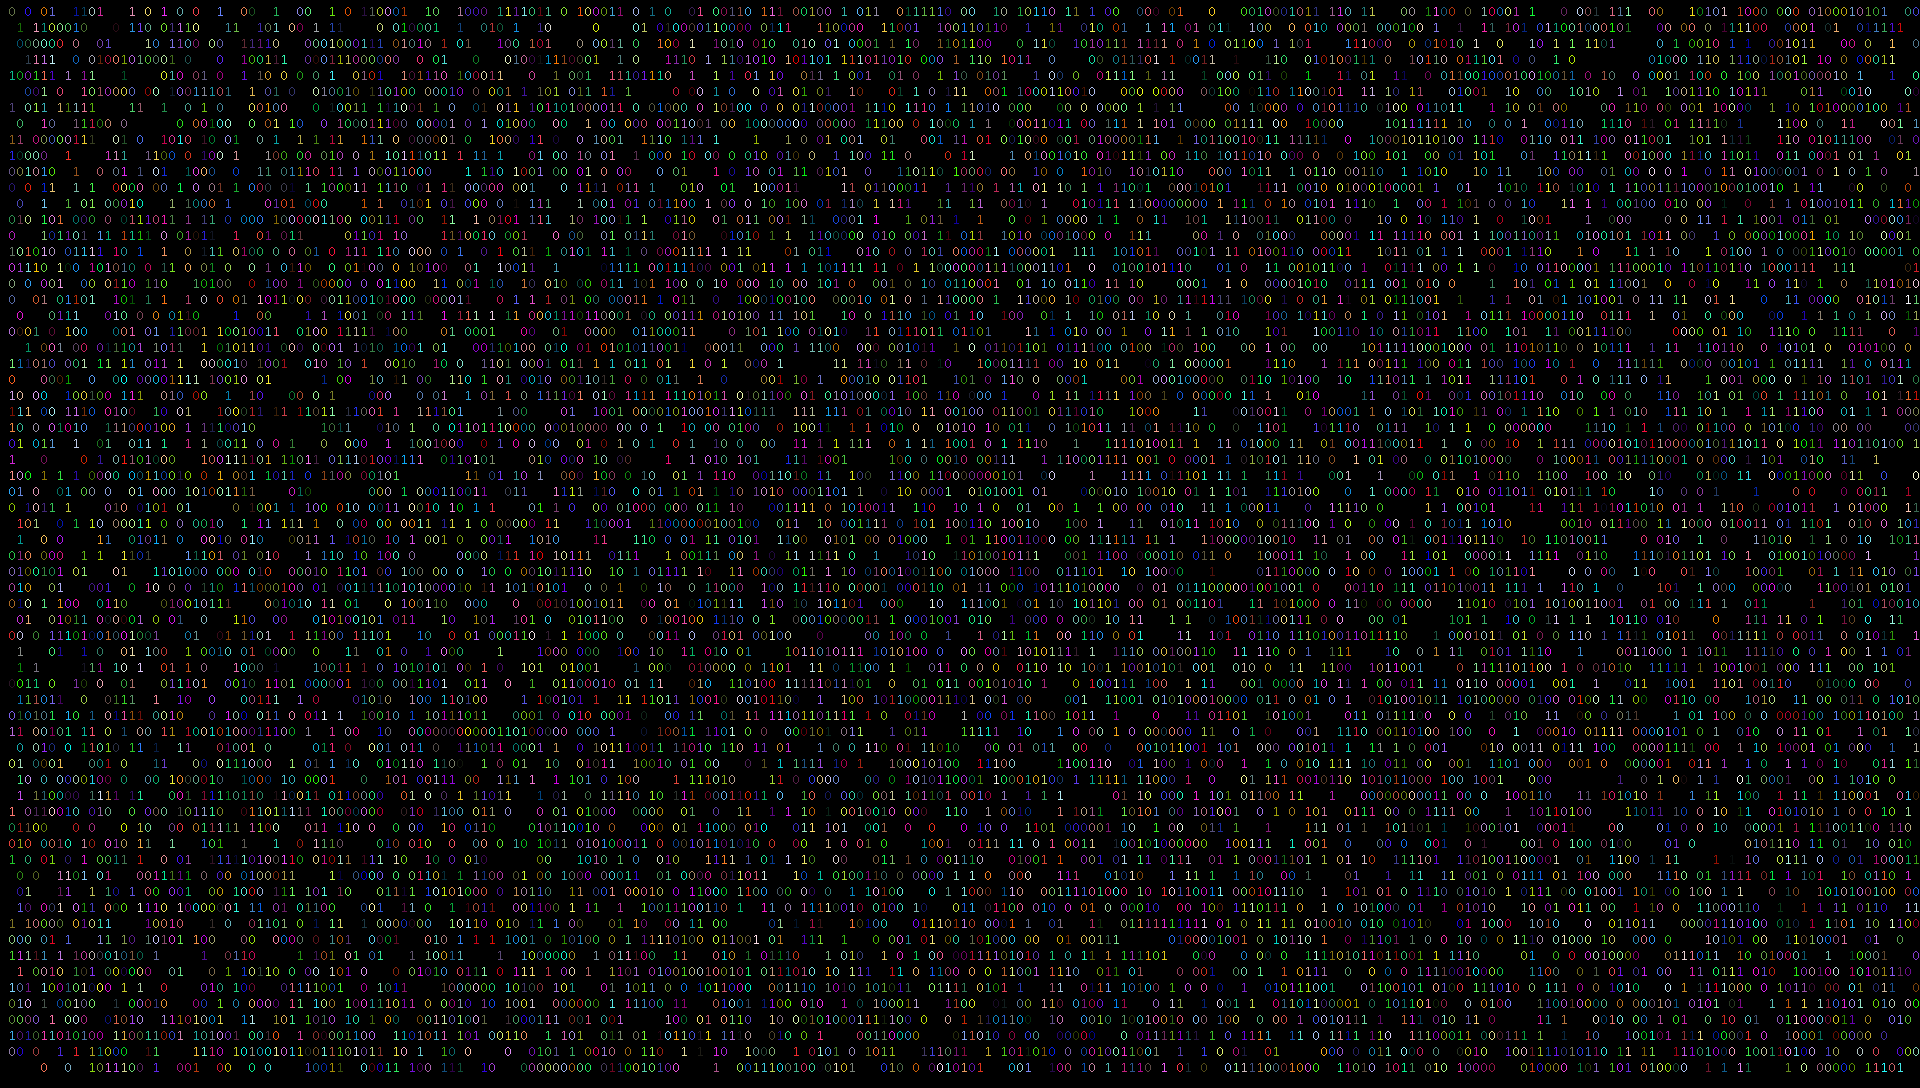
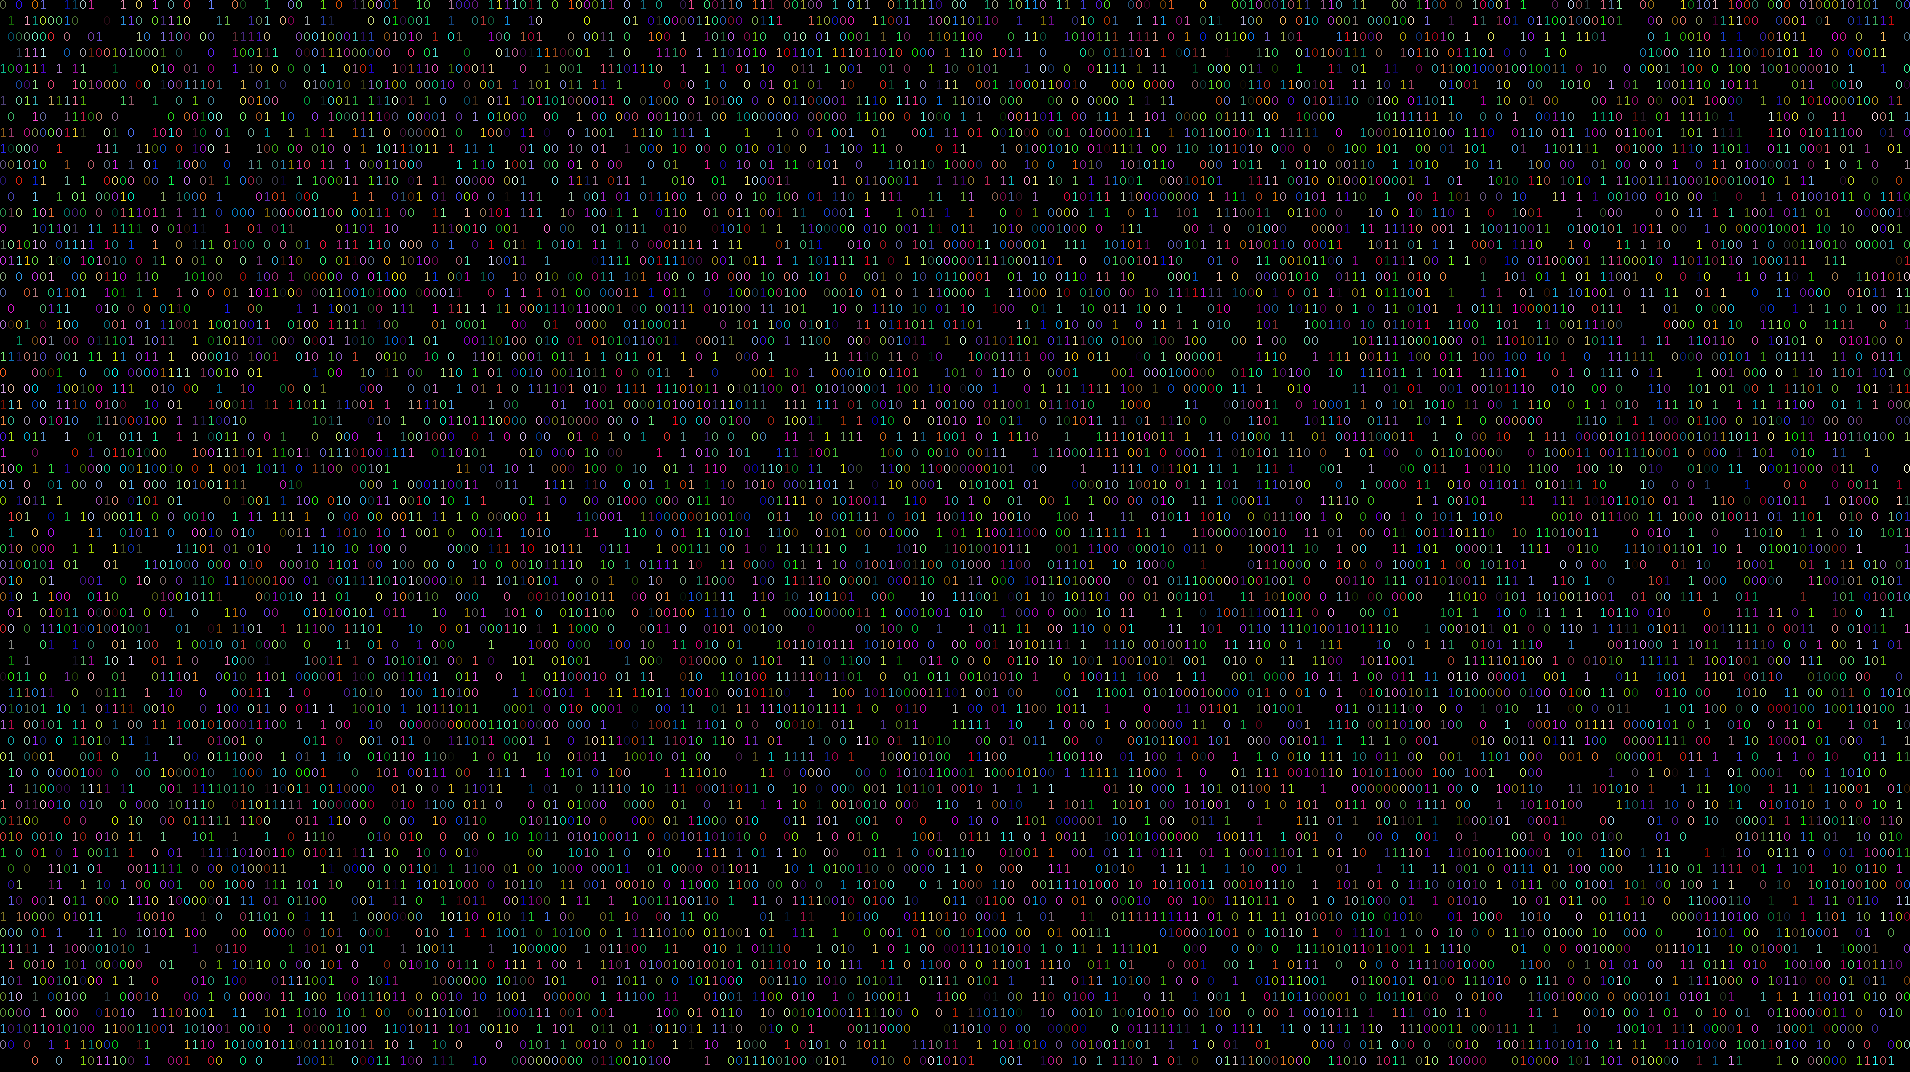
Finalized layout and make some break points, ready to prepare the build

Changed region(s): [[0.0, 0.0, 1.0, 1.0]]

diff --git a/index.html b/index.html
@@ -20,6 +20,7 @@
     <link rel="stylesheet" href="css/components/group-cards.css" />
     <link rel="stylesheet" href="css/components/contact-page.css" />
     <link rel="stylesheet" href="css/components/group-social.css" />
+    <link rel="stylesheet" href="css/components/footer-page.css" />
 
     <link rel="stylesheet" href="css/objects/secondary-title.css" />
     <link rel="stylesheet" href="css/objects/body-text.css" />
@@ -52,7 +53,7 @@
 
       <section class="home-page">
         <figure class="photo-page">
-          <img class="profile" src="assets/images/default-image.jpg" alt="A default image" />
+          <img class="profile" src="assets/images/profile-photo.jpg" alt="My photography" />
         </figure>
         <h1 class="title">Bruno Bolting</h1>
         <p class="sub-title">Full Stack Web Developer</p>
@@ -63,9 +64,12 @@
           I'm a Web Developer from Brazil and I have 2+ years experience in web development using PHP, CSS3, HTML5 and
           Javascript, creating different web system for University Center
           <a class="inline-link" target="_blank" href="https://www.uniguacu.edu.br">Vale do Iguaçu</a>. <br />
+          I'm a bachelor of System of Information formed in University Center Vale do Iguaçu, in Paraná, Brazil.
+          <br />
           I search a new opportunity to learn and make difference in other projects, mainly out of Brazil, with a remote
           Freelancer or a presential job. My english is not fluent for now, but I training every day to get it.<br /><br />
-          If you want a question or just talk, don't be shy, <a class="inline-link" href="#contact">contact me!</a> :D
+          If you want a question or just talk, don't be shy,
+          <a class="inline-link internal-link" href="#contact">contact me!</a> :D
         </p>
       </section>
       <section class="project-page">
@@ -116,6 +120,10 @@
           ></a>
         </div>
       </section>
+      <footer class="footer-page">
+        <p class="text">Bruno Bolting @ 2019</p>
+      </footer>
     </div>
+    <script src="js/script.js"></script>
   </body>
 </html>

diff --git a/css/components/home-page.css b/css/components/home-page.css
@@ -1,16 +1,16 @@
 .home-page {
   grid-area: home;
   height: calc(100vh - 55px);
-  display: flex;
+  /* display: flex;
   align-items: center;
-  flex-flow: column wrap;
+  flex-flow: column wrap; */
   /* background-color: var(--color-out-base); */
 }
 
 .home-page > .title {
-  margin-top: 100px;
+  margin-top: 80px;
   color: var(--color-primary);
-  font-size: 5em;
+  font-size: 80px;
   letter-spacing: 5px;
   text-shadow: 1px 1px 1px var(--color-out-base);
   display: block;
@@ -21,7 +21,42 @@
   margin-top: 10px;
   color: var(--color-secondary);
   letter-spacing: 9px;
-  font-size: 1.5em;
+  font-size: 24px;
   display: block;
   text-align: center;
+}
+
+@media (max-width: 640px) {
+  .home-page {
+    height: calc(85vh - 55px);
+  }
+
+  .home-page > .title {
+    font-size: 60px;
+  }
+
+  .home-page > .sub-title {
+    letter-spacing: 5px;
+  }
+}
+
+@media (max-width: 520px) {
+  .home-page > .title {
+    font-size: 42px;
+  }
+
+  .home-page > .sub-title {
+    font-size: 20px;
+    letter-spacing: 3px;
+  }
+}
+
+@media (max-width: 440px) {
+  .home-page > .title {
+    font-size: 32px;
+  }
+
+  .home-page > .sub-title {
+    font-size: 17px;
+  }
 }

diff --git a/css/components/contact-page.css b/css/components/contact-page.css
@@ -1,15 +1,16 @@
 .contact-page {
   grid-area: contact;
-  height: calc(100vh - 30px);
+  /* height: calc(100vh - 30px); */
   color: var(--color-primary);
+  margin-bottom: 100px;
 }
 
 .contact-page > .email {
   display: block;
-  margin-top: 100px;
+  /* margin-top: 80px; */
   margin-left: auto;
   margin-right: auto;
-  font-size: 3em;
+  font-size: 40px;
   text-align: center;
   text-decoration: none;
   color: inherit;
@@ -18,4 +19,16 @@
 
 .contact-page > .email:hover {
   color: #9affff;
+}
+
+@media (max-width: 640px) {
+  .contact-page > .email {
+    font-size: 35px;
+  }
+}
+
+@media (max-width: 460px) {
+  .contact-page > .email {
+    font-size: 24px;
+  }
 }

diff --git a/css/components/photo-page.css b/css/components/photo-page.css
@@ -1,22 +1,20 @@
 .photo-page {
-  margin-top: 20vh;
-  max-width: 200px;
-  max-height: 200px;
-  width: auto;
-  height: auto;
+  margin-top: 15vh;
+  width: 200px;
+  height: 200px;
   overflow: hidden;
   border: 5px inset #ccc;
   border-radius: 100%;
-  /* display: flex;
-  align-items: center; */
+  display: block;
+  margin-left: auto;
+  margin-right: auto;
+  /* position: absolute;
+  left: 50%;
+  top: 50%;
+  transform: translate(-50%, -50%); */
 }
 
 .photo-page > .profile {
-  position: relative;
-  left: 50%;
-  top: 50%;
-  transform: translate(-50%, -50%);
   width: inherit;
   height: inherit;
-  display: block;
 }

diff --git a/js/script.js b/js/script.js
@@ -1,0 +1,24 @@
+const links = document.querySelectorAll('.internal-link[href^="#"]');
+
+links.forEach(item => {
+  item.addEventListener('click', scrollToIdOnClick);
+});
+
+function getScrollTopByHref(element) {
+  const id = element.getAttribute('href');
+  return document.querySelector(id).offsetTop;
+}
+
+function scrollToIdOnClick(event) {
+  event.preventDefault();
+  const to = getScrollTopByHref(event.target);
+
+  scrollToPosition(to);
+}
+
+function scrollToPosition(to) {
+  window.scroll({
+    top: to,
+    behavior: 'smooth'
+  });
+}

diff --git a/css/base/base.css b/css/base/base.css
@@ -15,7 +15,7 @@ body {
     #3b3947,
     #27252c
   ); */
-  background-image: url('../../assets/images/binary-code-2.png');
+  background-image: url('../../assets/images/binary-code.png');
   background-repeat: repeat;
   /* background-size: cover; */
   font-family: 'Blinker', sans-serif;

diff --git a/css/components/container-page.css b/css/components/container-page.css
@@ -25,9 +25,10 @@
   grid-template-columns: 40px 1fr 40px;
   grid-template-rows: auto;
   grid-template-areas:
-    'header header header'
+    '. header .'
     '. home .'
     '. about .'
     '. project .'
-    '. contact .';
+    '. contact .'
+    '. footer .';
 }

diff --git a/css/components/footer-page.css b/css/components/footer-page.css
@@ -1,0 +1,13 @@
+.footer-page {
+  grid-area: footer;
+  color: var(--color-secondary);
+  padding-top: 10px;
+  padding-bottom: 10px;
+  margin-bottom: 10px;
+}
+
+.footer-page > .text {
+  font-size: 14pt;
+  text-align: center;
+  letter-spacing: 1px;
+}

diff --git a/css/objects/secondary-title.css b/css/objects/secondary-title.css
@@ -1,5 +1,12 @@
 .secondary-title {
-  font-size: 2.5em;
-  margin: 20px 40px;
+  font-size: 40px;
+  margin: 20px 10px;
   color: inherit;
+}
+
+@media (max-width: 640px) {
+  .secondary-title {
+    font-size: 26px;
+    margin: 20px 10px;
+  }
 }

diff --git a/css/components/group-social.css b/css/components/group-social.css
@@ -1,5 +1,9 @@
 .group-social {
-  display: block;
+  margin-top: 50px;
+  display: flex;
+  /* width: 100%;
   margin-left: auto;
-  margin-right: auto;
+  margin-right: auto; */
+  justify-content: center;
+  align-items: flex-end;
 }

diff --git a/css/objects/social-icon.css b/css/objects/social-icon.css
@@ -30,6 +30,13 @@
 }
 
 .social-icon.-big {
-  font-size: 52px;
-  width: 60px;
+  font-size: 48px;
+  width: 56px;
+}
+
+@media (max-width: 460px) {
+  .social-icon.-big {
+    font-size: 42px;
+    width: 50px;
+  }
 }
